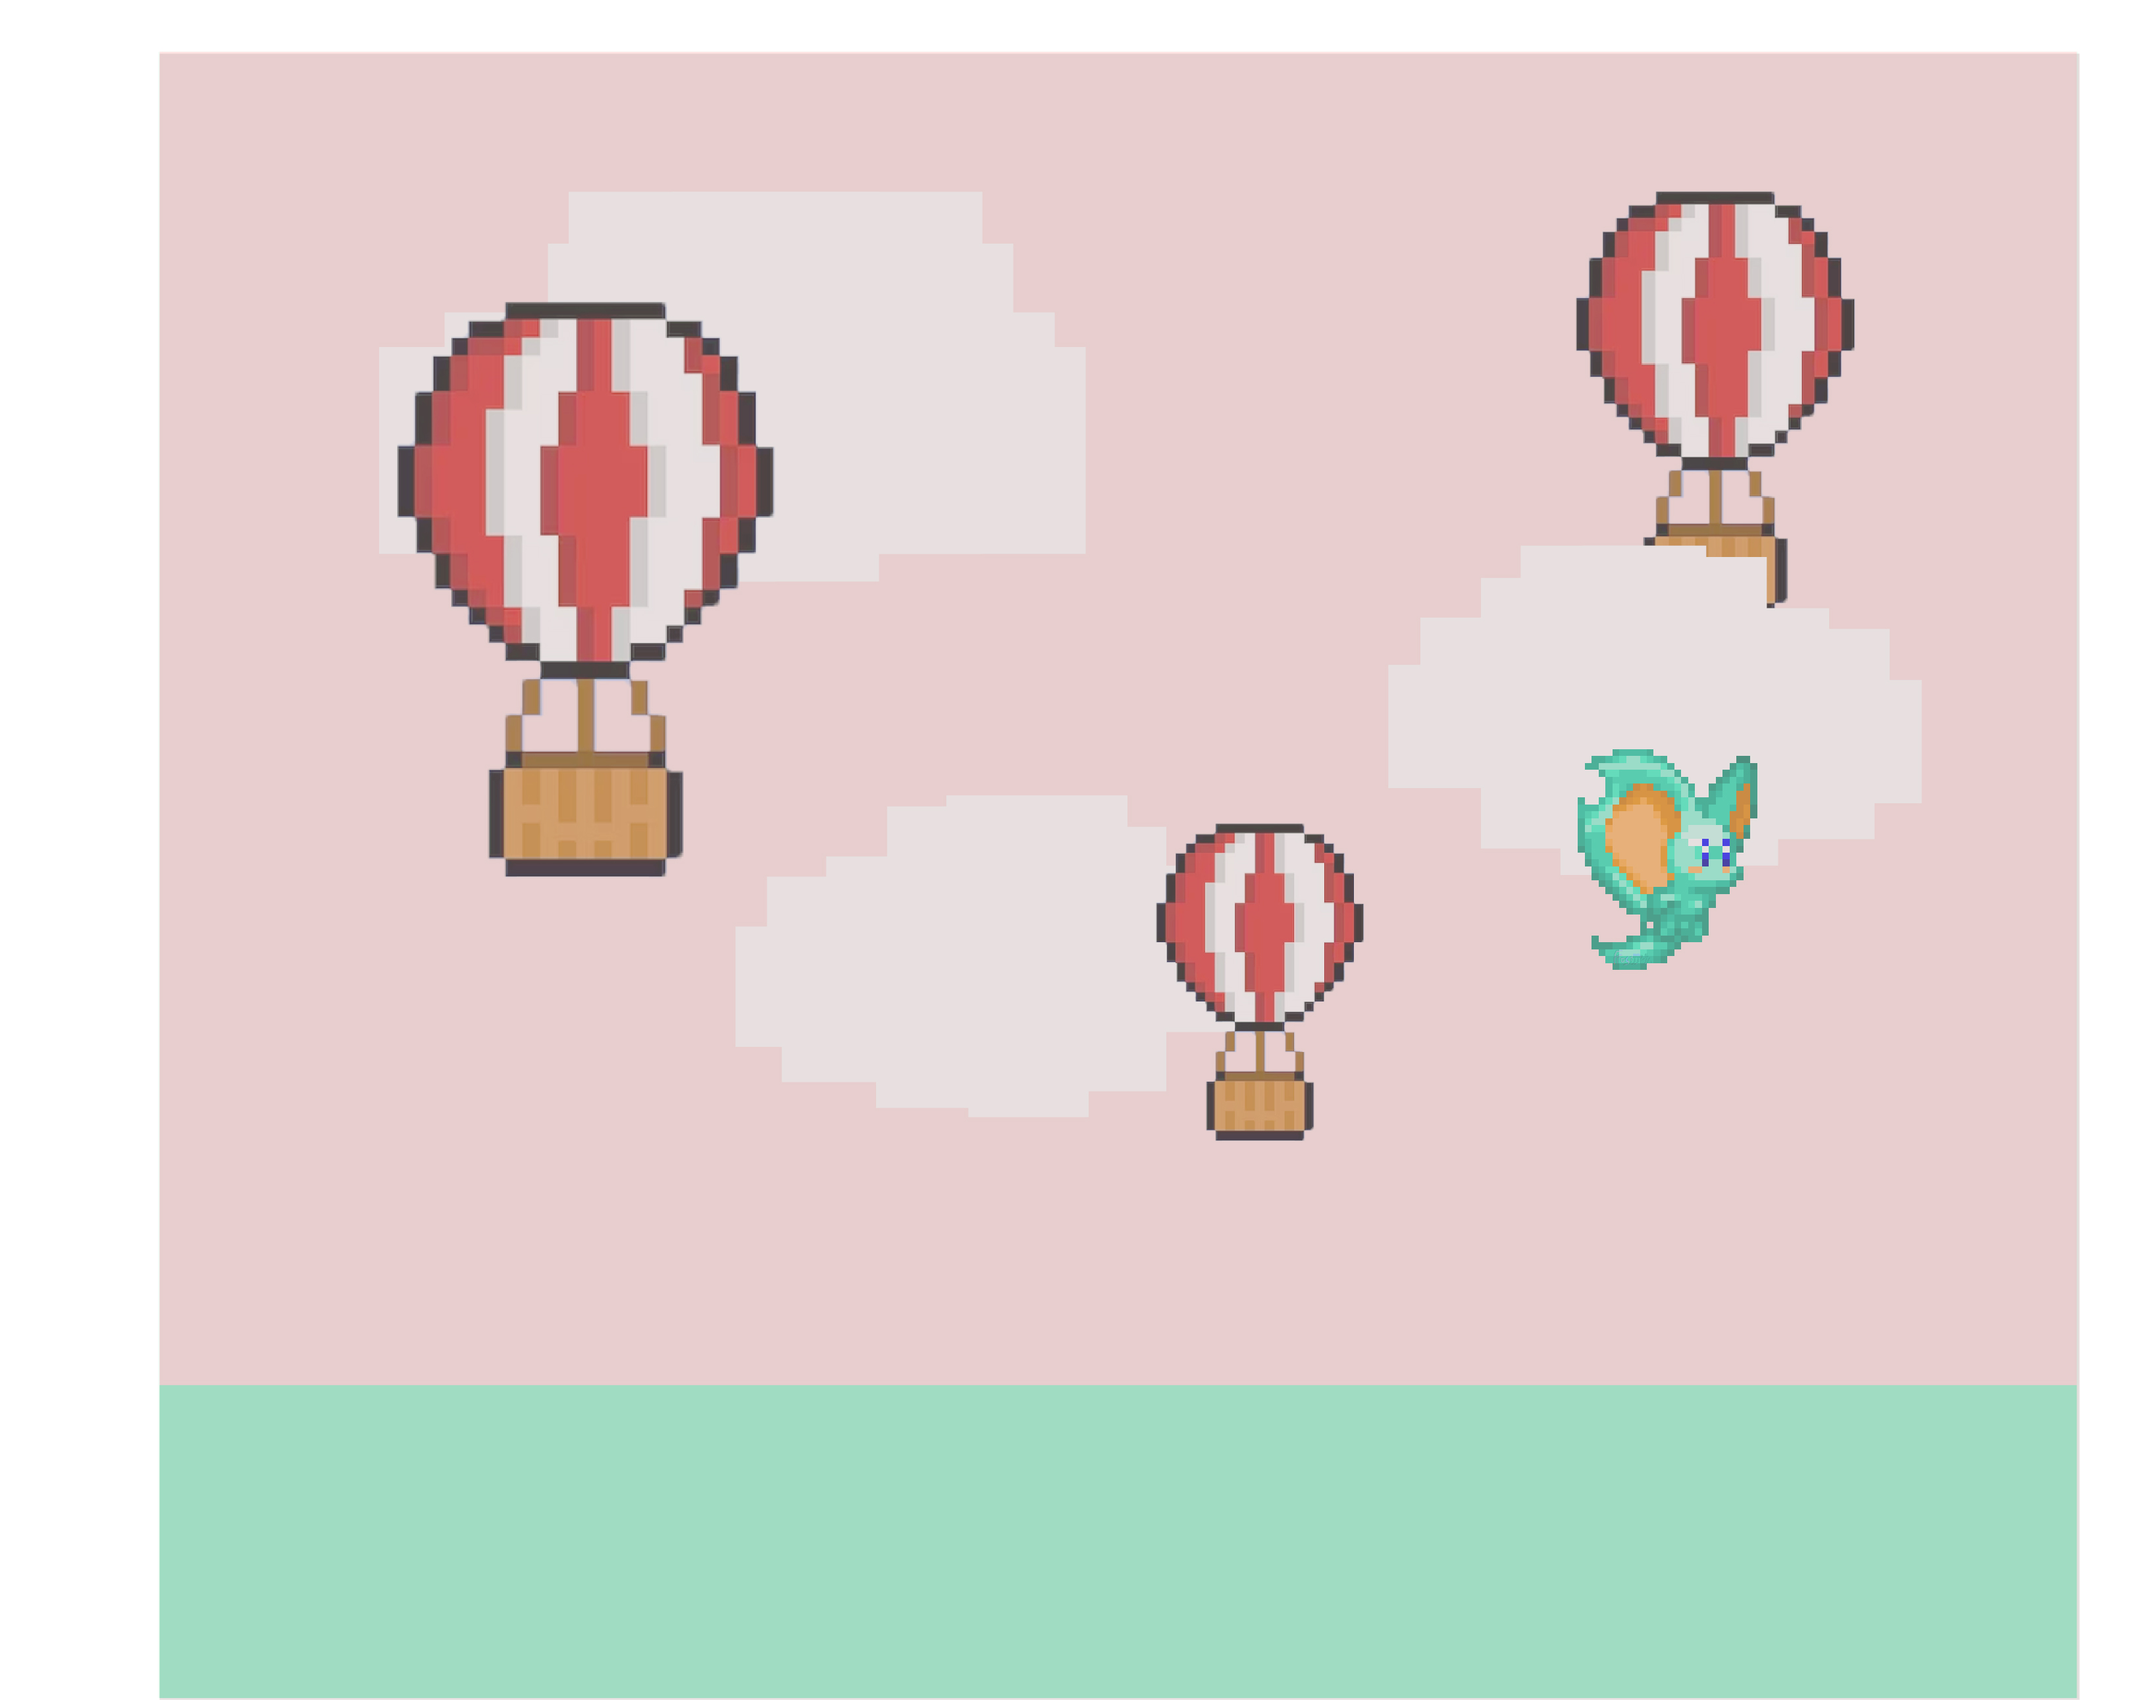
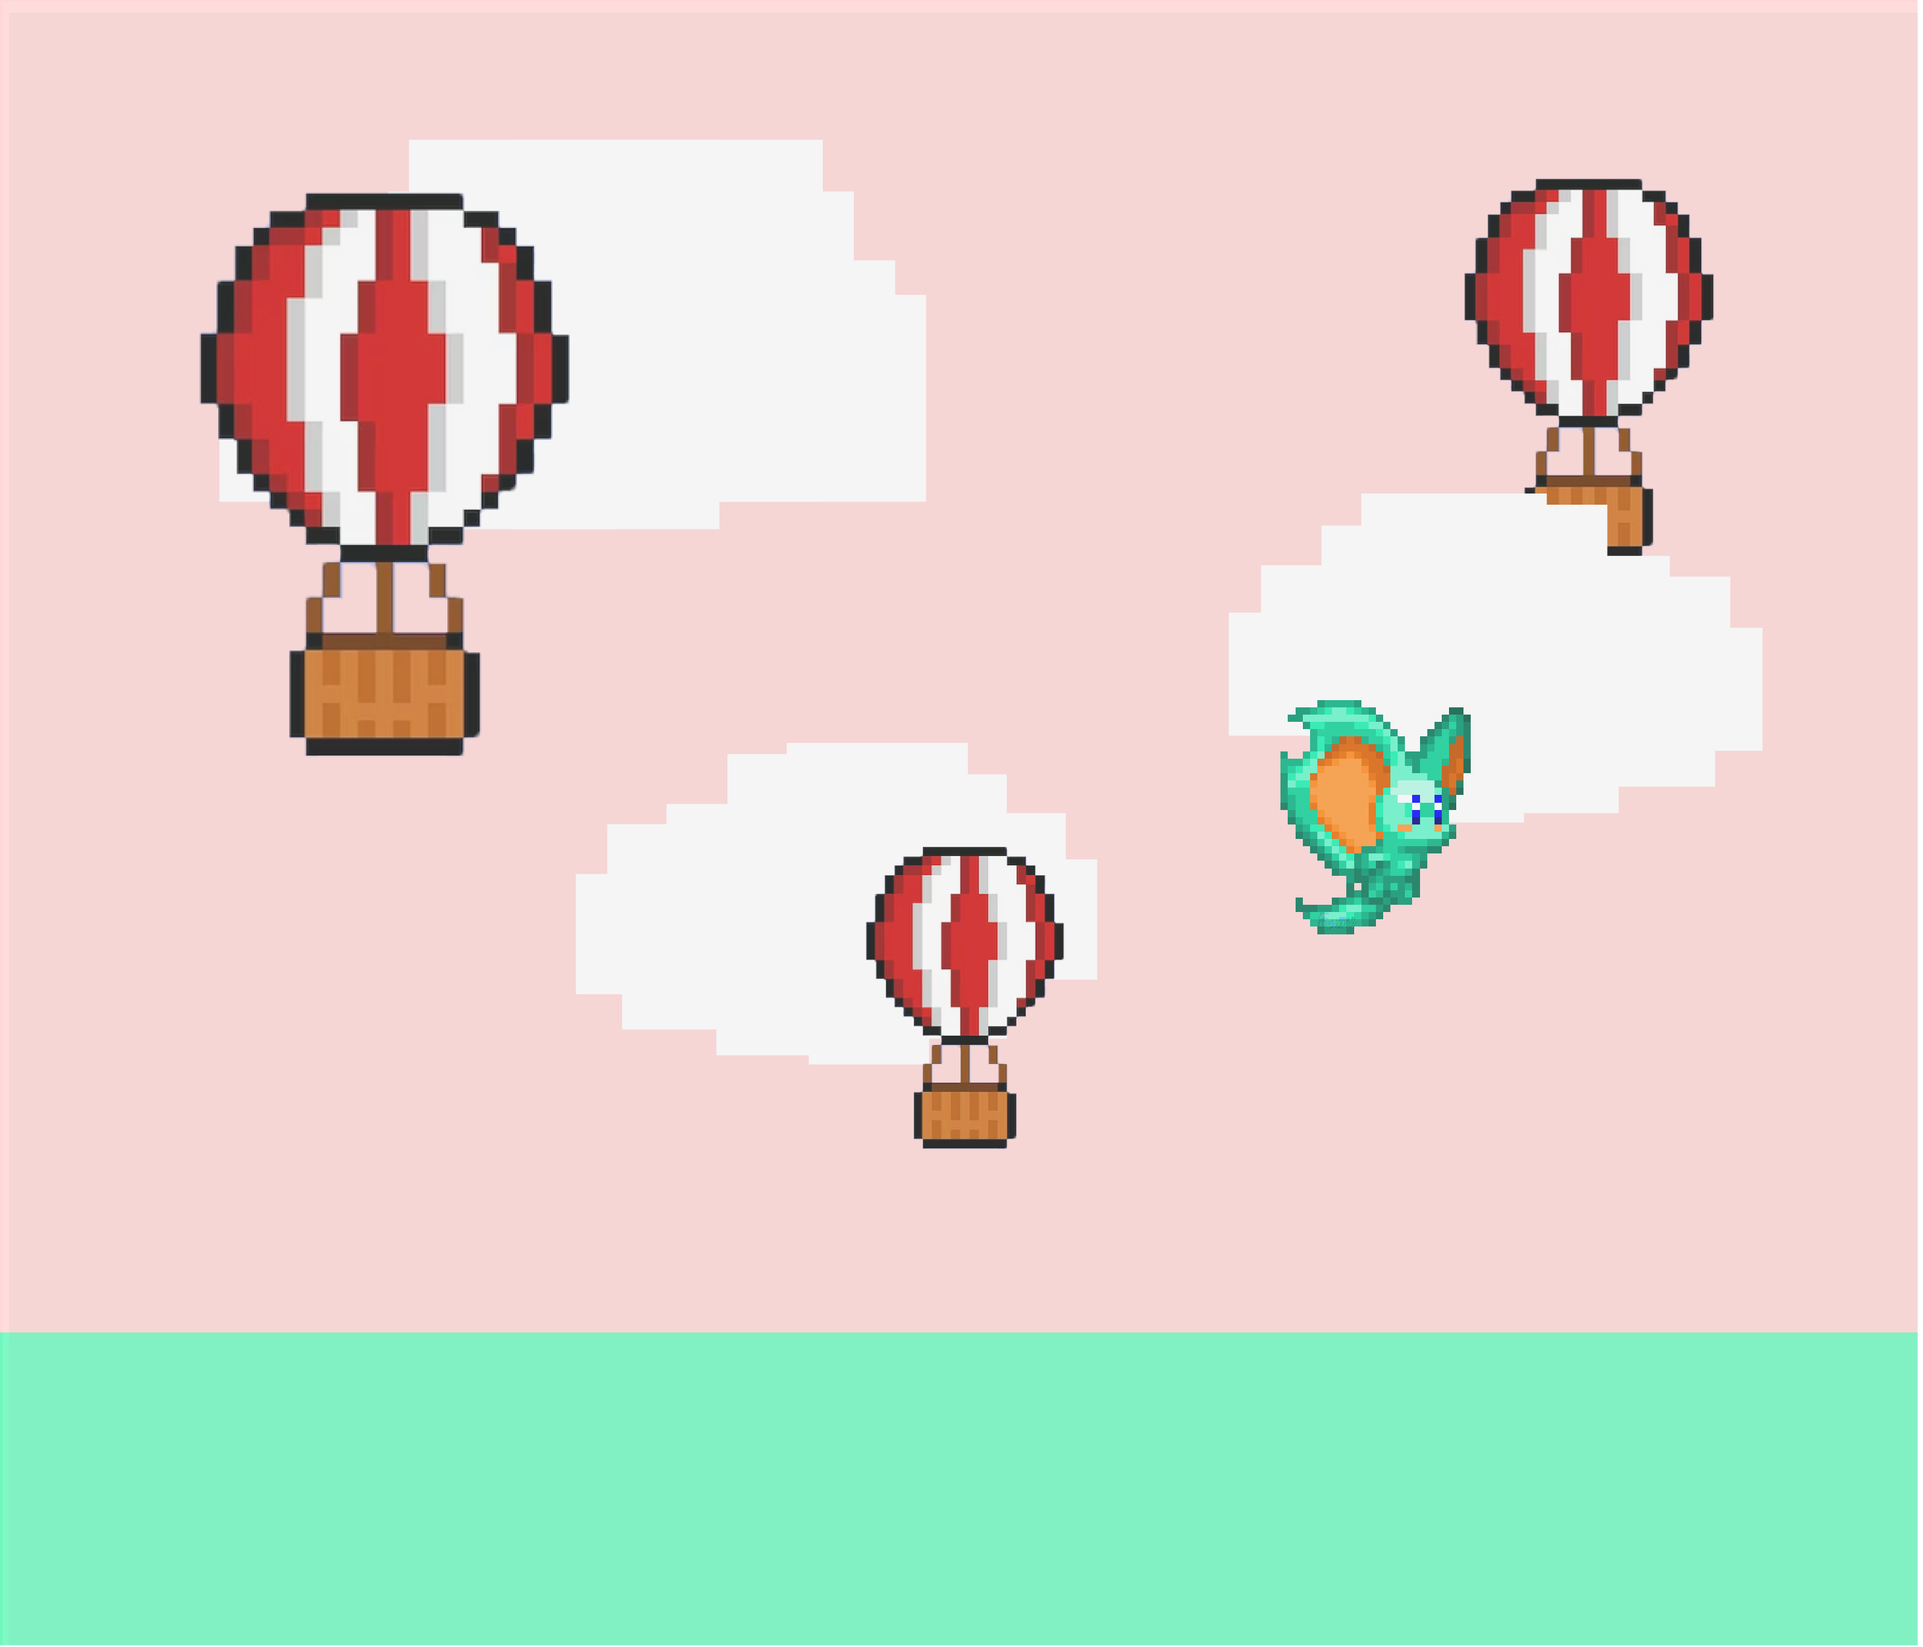
bg images fixed

diff --git a/game.js b/game.js
@@ -32,8 +32,8 @@ function preload() {
   backgroundImage = [
     loadImage("kirbybackground.jpg"),
     loadImage("kirbybackground.jpg"),
-    loadImage("kirbybackground2.jpg"),
-    loadImage("kirbybackground3jpg"),
+    loadImage("forestbackground.jpg"),
+    loadImage("balloonbackground.jpg"),
   ];
 }
 
@@ -316,7 +316,7 @@ function gameScreen() {
   textFont("Helvetica");
   textSize(38);
   text("Level " + level.toString(), 310, 40);
-  rect(0, 500, 700);
+
   pop();
   push();
   fill(252, 216, 216);
@@ -324,7 +324,7 @@ function gameScreen() {
   textSize(18);
   goal = level * 3;
   text("Collect " + goal.toString() + " green squares to level up", 222, 74);
-  rect(0, 500, 700);
+
   pop();
 
   // Displaying the score
